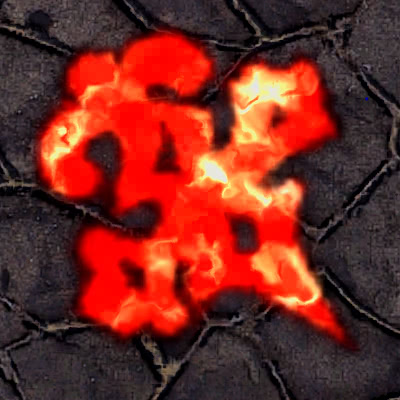
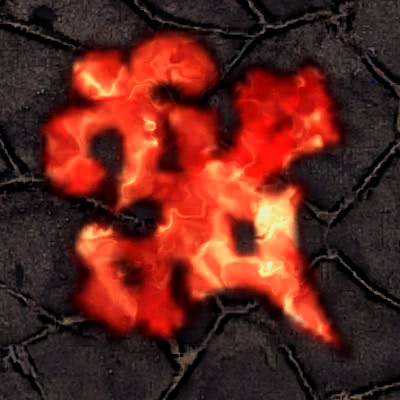
new glyph bb

diff --git a/client/Ui/MainWindowTabs/Write.cs b/client/Ui/MainWindowTabs/Write.cs
@@ -24,7 +24,7 @@ internal class Write : ITab {
     private List<TextureWrap> GlyphImages { get; } = new();
 
     private void LoadSignImages() {
-        for (var i = 0; i < 5; i++) {
+        for (var i = 0; i < Messages.VfxPaths.Length; i++) {
             var stream = Resourcer.Resource.AsStreamUnChecked($"OrangeGuidanceTomestone.img.sign_{i}.jpg");
             using var mem = new MemoryStream();
             stream.CopyTo(mem);
@@ -199,7 +199,7 @@ internal class Write : ITab {
         if (ImGui.BeginCombo("Glyph", $"{this._glyph + 1}")) {
             var tooltipShown = false;
 
-            for (var i = 0; i < 5; i++) {
+            for (var i = 0; i < Messages.VfxPaths.Length; i++) {
                 if (ImGui.Selectable($"{i + 1}", this._glyph == i)) {
                     this._glyph = i;
                 }

diff --git a/client/Plugin.cs b/client/Plugin.cs
@@ -79,7 +79,7 @@ public class Plugin : IDalamudPlugin {
     private string CopyAvfxFile() {
         var configDir = this.Interface!.GetPluginConfigDirectory();
         Directory.CreateDirectory(configDir);
-        for (var i = 0; i < 5; i++) {
+        for (var i = 0; i < Messages.VfxPaths.Length; i++) {
             var letter = (char) ('a' + i);
             var stream = Resourcer.Resource.AsStreamUnChecked($"OrangeGuidanceTomestone.vfx.b0941trp1{letter}_o.avfx");
             var path = Path.Join(configDir, $"sign_{letter}.avfx");
